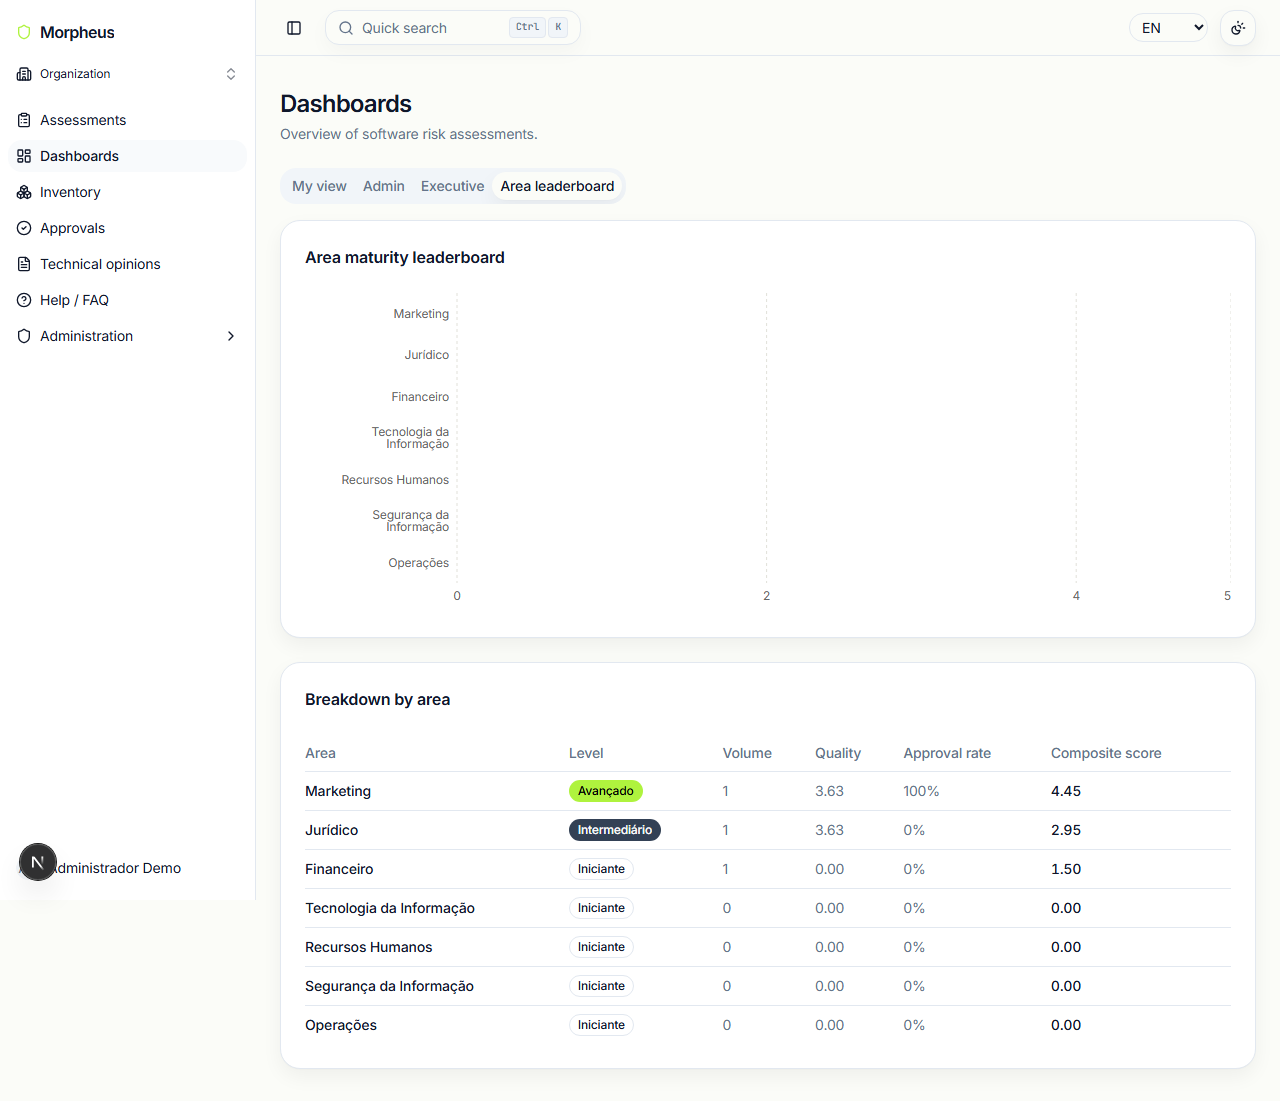
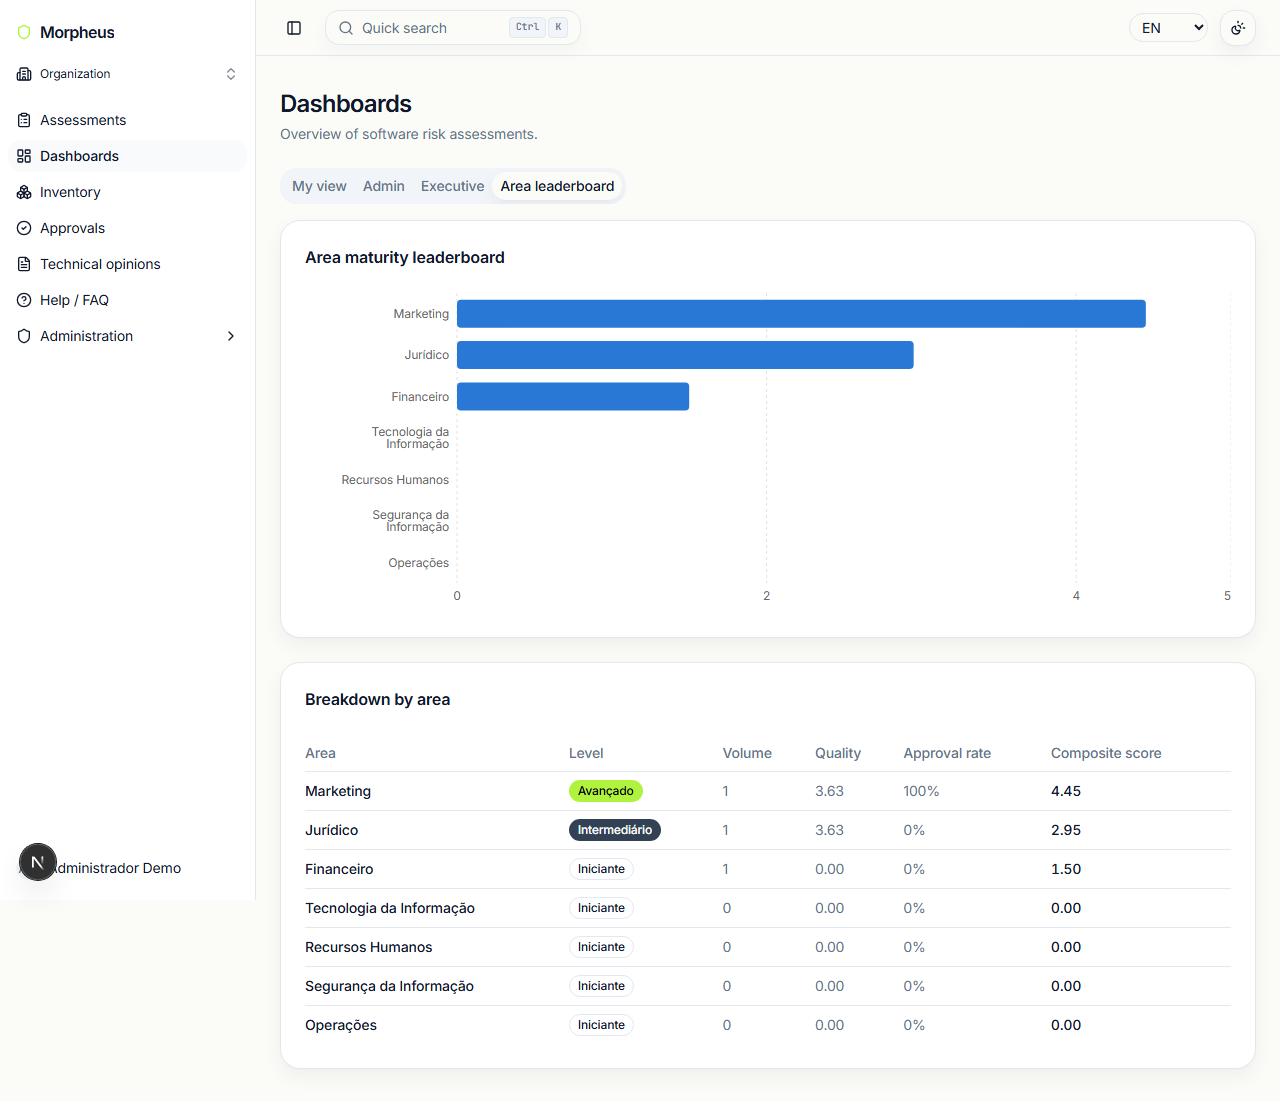
fix: regenera screenshots de dashboard com barras ausentes
As barras dos gráficos recharts (Administrativo, Placar por área) apareciam
vazias em 3 screenshots do README. Investigação confirmou que não é um bug
de aplicação — é uma peculiaridade do Chromium headless em que o primeiro
fullPage screenshot logo após uma troca de aba às vezes não inclui o frame
que pinta fill="var(--x)" nas barras SVG. Contornado tirando um screenshot
de viewport descartável antes do fullPage real.

Changed region(s): [[0.3438, 0.247, 0.9062, 0.3706]]

diff --git a/docs/DEVELOPMENT.md b/docs/DEVELOPMENT.md
@@ -1844,3 +1844,37 @@ Com a Fase 6, as 6 fases do plano de renovação anual de homologação estão c
     nome acessível e não ambiguou.
   - Sem mudança de código - só `README.md` e os arquivos de screenshot (4 PT-BR atualizados + 6 EN
     novos).
+- **Investigação: barras dos gráficos "sumindo" em 3 screenshots** (usuário reportou, 2026-07-24,
+  apontando `dashboard-administrativo.png`, `dashboard-placar-por-area.png` e
+  `dashboard-placar-por-area-en.png` - as barras do recharts apareciam totalmente ausentes, só os
+  eixos/labels). Investigado a fundo com Playwright direto no app rodando (não só olhando os
+  screenshots existentes) antes de mexer em qualquer código, pra não "consertar" um bug que não
+  existisse:
+  - Confirmado que **não é um bug de aplicação**: inspecionado o DOM ao vivo (`[email redacted]`,
+    tenant demo) - os `<path>` do recharts (`.recharts-bar-rectangle path`) sempre tinham geometria
+    correta (`width`/`height` != 0), `fill` resolvendo pra cor real via `getComputedStyle` (as cores
+    vêm de `colorForOutcomeKey()` em `dashboard-colors.ts`, que retorna `var(--chart-good)` etc.,
+    variáveis CSS reais e definidas), `opacity: 1`, `visibility: visible`, e passavam em
+    `elementFromPoint()` (ou seja, são o elemento clicável no topo daquele ponto - nada as cobre).
+    Repetido em 4 trials seguidos sem nenhuma falha.
+  - Isolado o culpado: é uma peculiaridade específica do **primeiro `page.screenshot({fullPage:
+    true})` do Chromium headless logo após um `click()` de troca de aba** (Radix `Tabs`) que monta
+    um `<BarChart>` novo - o pipeline de composição às vezes não inclui o frame que pinta os `fill`
+    baseados em `var(--x)` nesse primeiro fullPage capture, mesmo com `wait`s generosos (testado até
+    2500ms) e mesmo forçando leitura de `getBoundingClientRect()`/`getComputedStyle()` antes (que
+    intuitivamente forçaria layout mas não resolveu). Reproduzido de forma 100% determinística nessa
+    sequência exata (login → `/dashboards` → click na aba → `fullPage` screenshot).
+  - **O que resolve, comprovado por teste A/B no mesmo estado de página**: tirar qualquer screenshot
+    de viewport comum (`page.screenshot()`, sem `fullPage`) IMEDIATAMENTE ANTES do `fullPage` real -
+    isso força o Chromium a flushar o pipeline de pintura, e o `fullPage` seguinte (mesmo sem esperar
+    mais nada) sai correto. Não achamos necessidade de investigar mais fundo o motivo exato dentro do
+    Chromium - o ponto prático é que é 100% contornável e não afeta usuário real (usuário nunca tira
+    um "fullPage screenshot" da própria tela; scroll/resize/mouse-move do uso normal já forçam pintura
+    o tempo todo).
+  - Screenshots regeneradas com esse contorno (script Playwright descartável, deletado depois):
+    `dashboard-administrativo.png`, `dashboard-placar-por-area.png` (pt-BR) e
+    `dashboard-placar-por-area-en.png` (en) - as 3 confirmadas visualmente com as barras aparecendo.
+  - **Como aplicar**: se aparecer de novo um screenshot de gráfico recharts "sem barra" capturado via
+    Playwright/Chromium headless, antes de suspeitar do código, tirar um screenshot descartável
+    (viewport, sem `fullPage`) logo antes do real - resolve na maioria dos casos. Sem mudança de
+    código nesta entrada - só os 3 arquivos de screenshot.